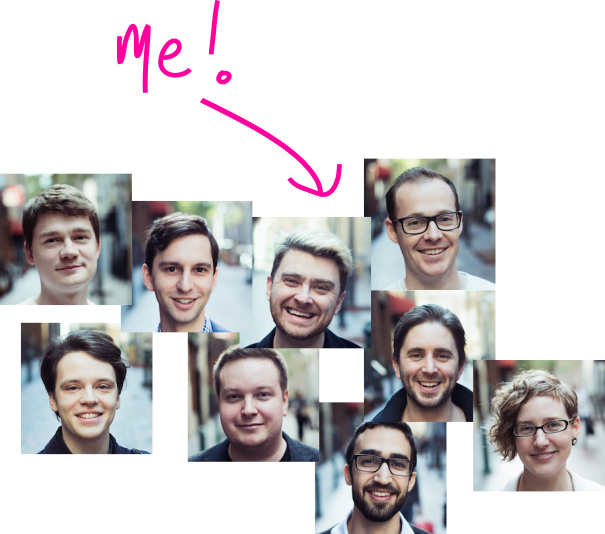
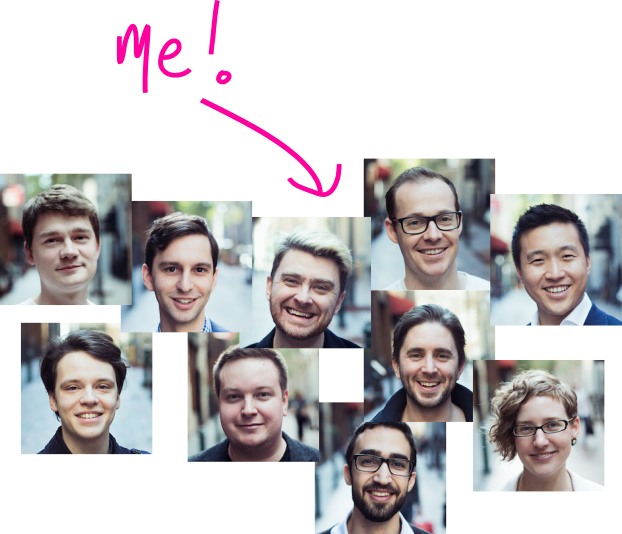
forgot jono

diff --git a/src/_site/posts/2017-03-29-ideas-and-actions-for-getting-and-keeping-women-in-technology.html b/src/_site/posts/2017-03-29-ideas-and-actions-for-getting-and-keeping-women-in-technology.html
@@ -32,7 +32,7 @@
 
 <p>In my job I’m almost entirely surrounded by men.</p>
 <center>
-<img src="../images/silverponders.png?1=1" />
+<img src="../images/silverponders.png?2=2" />
 </center>
 <p>I work as a Machine Learning Engineer at <a href="http://silverpond.com.au">Silverpond</a>. It’s definitely the best place I’ve ever worked, but there’s one area that we’re actively trying to improve: recruiting women into roles as software engineers and machine learning engineers.</p>
 <p>In this post I’ll cover some ideas I’ve had along these lines.</p>

diff --git a/src/posts/2017-03-29-ideas-and-actions-for-getting-and-keeping-women-in-technology.md b/src/posts/2017-03-29-ideas-and-actions-for-getting-and-keeping-women-in-technology.md
@@ -6,7 +6,7 @@ author: Noon van der Silk
 In my job I'm almost entirely surrounded by men. 
 
 <center>
-![](/images/silverponders.png?1=1)
+![](/images/silverponders.png?2=2)
 </center>
 
 I work as a Machine Learning Engineer at
